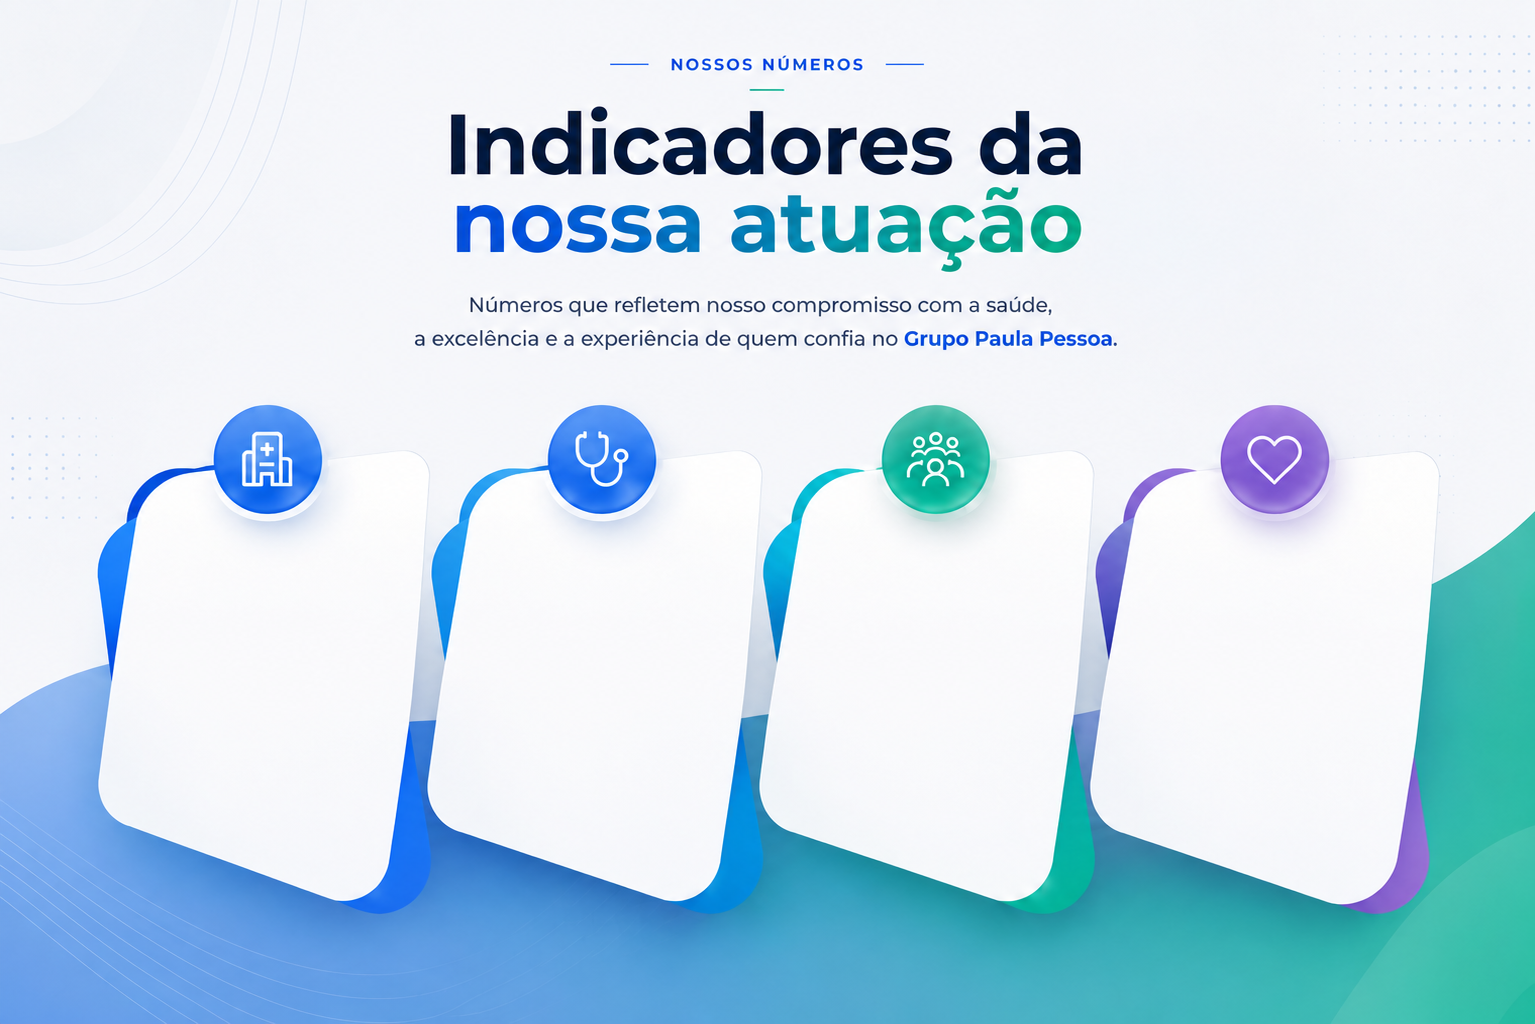
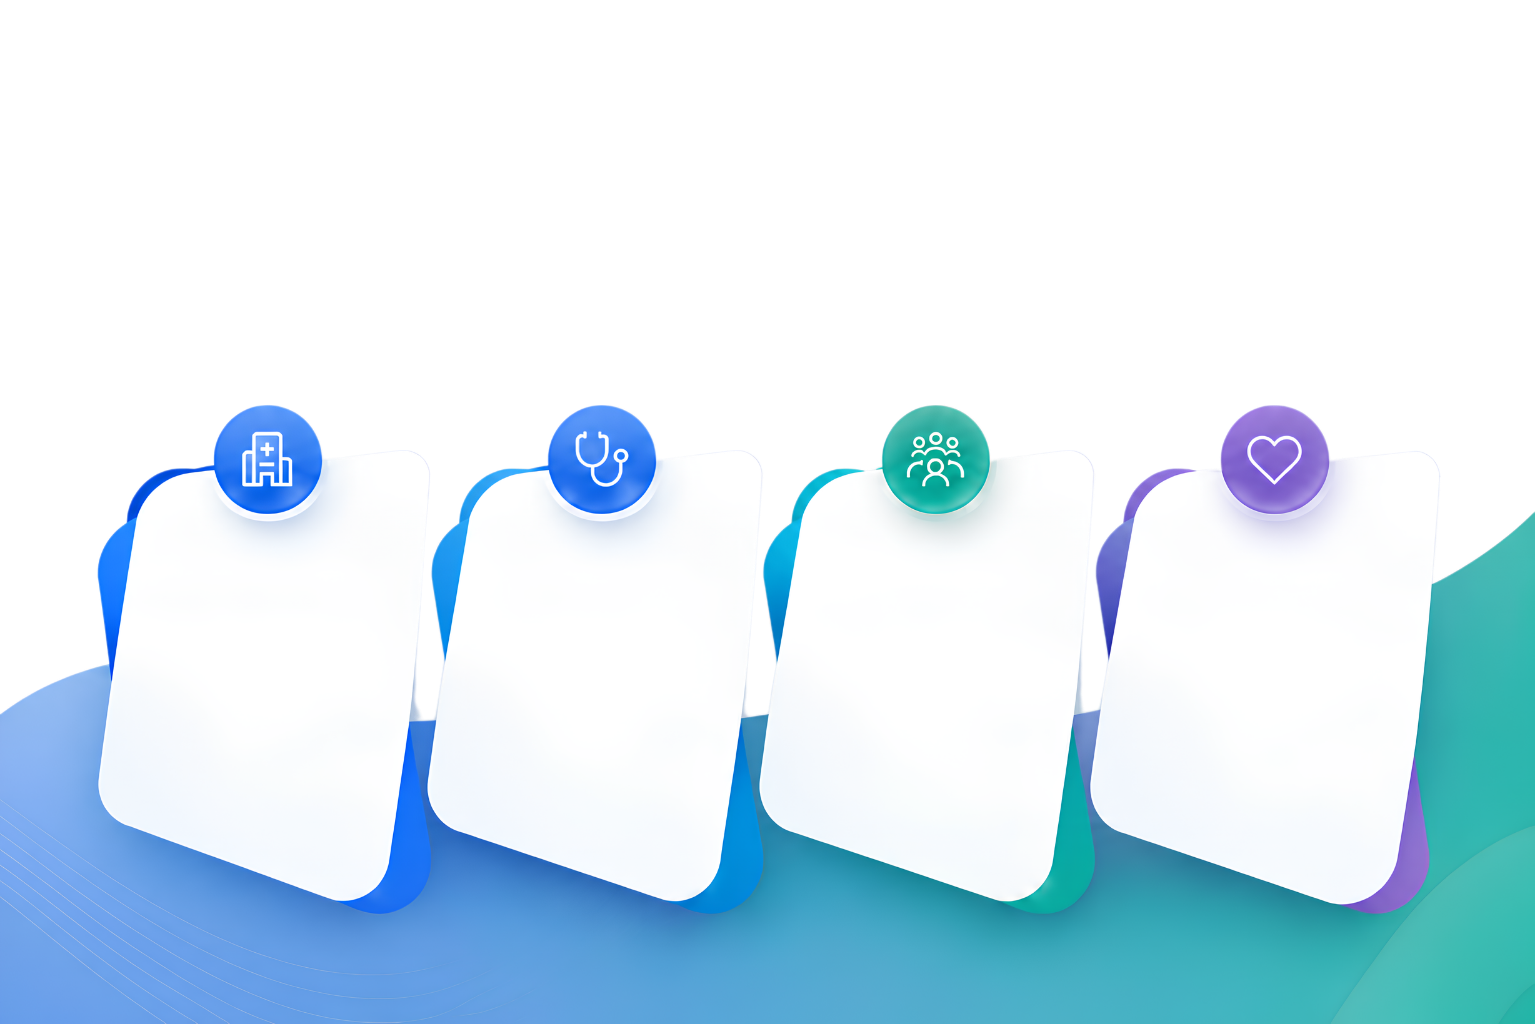
Substitui arte dos indicadores

diff --git a/css/estilos.css b/css/estilos.css
@@ -1118,7 +1118,14 @@ Adaptado para o Grupo Paula Pessoa.
         aspect-ratio: 3 / 2;
         padding: 0;
         border: 0;
-        background: url('../assets/banners/fundo-indicadores.png') center / cover no-repeat;
+        background-color: #f8fbff;
+        background-image:
+          url('../assets/banners/fundo-indicadores.png'),
+          radial-gradient(circle at 8% 8%, rgba(23,105,232,0.08), transparent 25%),
+          linear-gradient(180deg, #f9fcff 0%, #f4f9ff 58%, #e9f5ff 100%);
+        background-position: center;
+        background-size: cover;
+        background-repeat: no-repeat;
       }
       .secao-numeros-com-imagem::before { display: none; }
       .secao-numeros-com-imagem > .conteiner {
@@ -1129,13 +1136,24 @@ Adaptado para o Grupo Paula Pessoa.
       }
       .secao-numeros-com-imagem .cabecalho-numeros {
         position: absolute;
-        width: 1px;
-        height: 1px;
-        margin: -1px;
+        top: 4.5%;
+        left: 50%;
+        width: min(92%, 900px);
+        max-width: 900px;
+        height: auto;
+        margin: 0;
         padding: 0;
-        overflow: hidden;
-        clip: rect(0, 0, 0, 0);
-        white-space: nowrap;
+        overflow: visible;
+        clip: auto;
+        white-space: normal;
+        transform: translateX(-50%);
+      }
+      .secao-numeros-com-imagem .cabecalho-numeros h2 {
+        font-size: clamp(2.2rem, 5vw, 4.8rem);
+      }
+      .secao-numeros-com-imagem .cabecalho-numeros p {
+        margin-top: clamp(10px, 1.5vw, 24px);
+        font-size: clamp(0.78rem, 1.35vw, 1.15rem);
       }
       .secao-numeros-com-imagem .grade-numeros {
         position: absolute;

diff --git a/index.html b/index.html
@@ -13,7 +13,7 @@
   <link rel="preconnect" href="https://fonts.googleapis.com" />
   <link rel="preconnect" href="https://fonts.gstatic.com" crossorigin />
   <link href="https://fonts.googleapis.com/css2?family=Inter:wght@400;500;600;700;800&family=Montserrat:wght@600;700;800&display=swap" rel="stylesheet" />
-  <link rel="stylesheet" href="css/estilos.css?v=20260716-2" />
+  <link rel="stylesheet" href="css/estilos.css?v=20260716-3" />
 </head>
 <body>
   <!-- Menu exibido em celulares e tablets -->